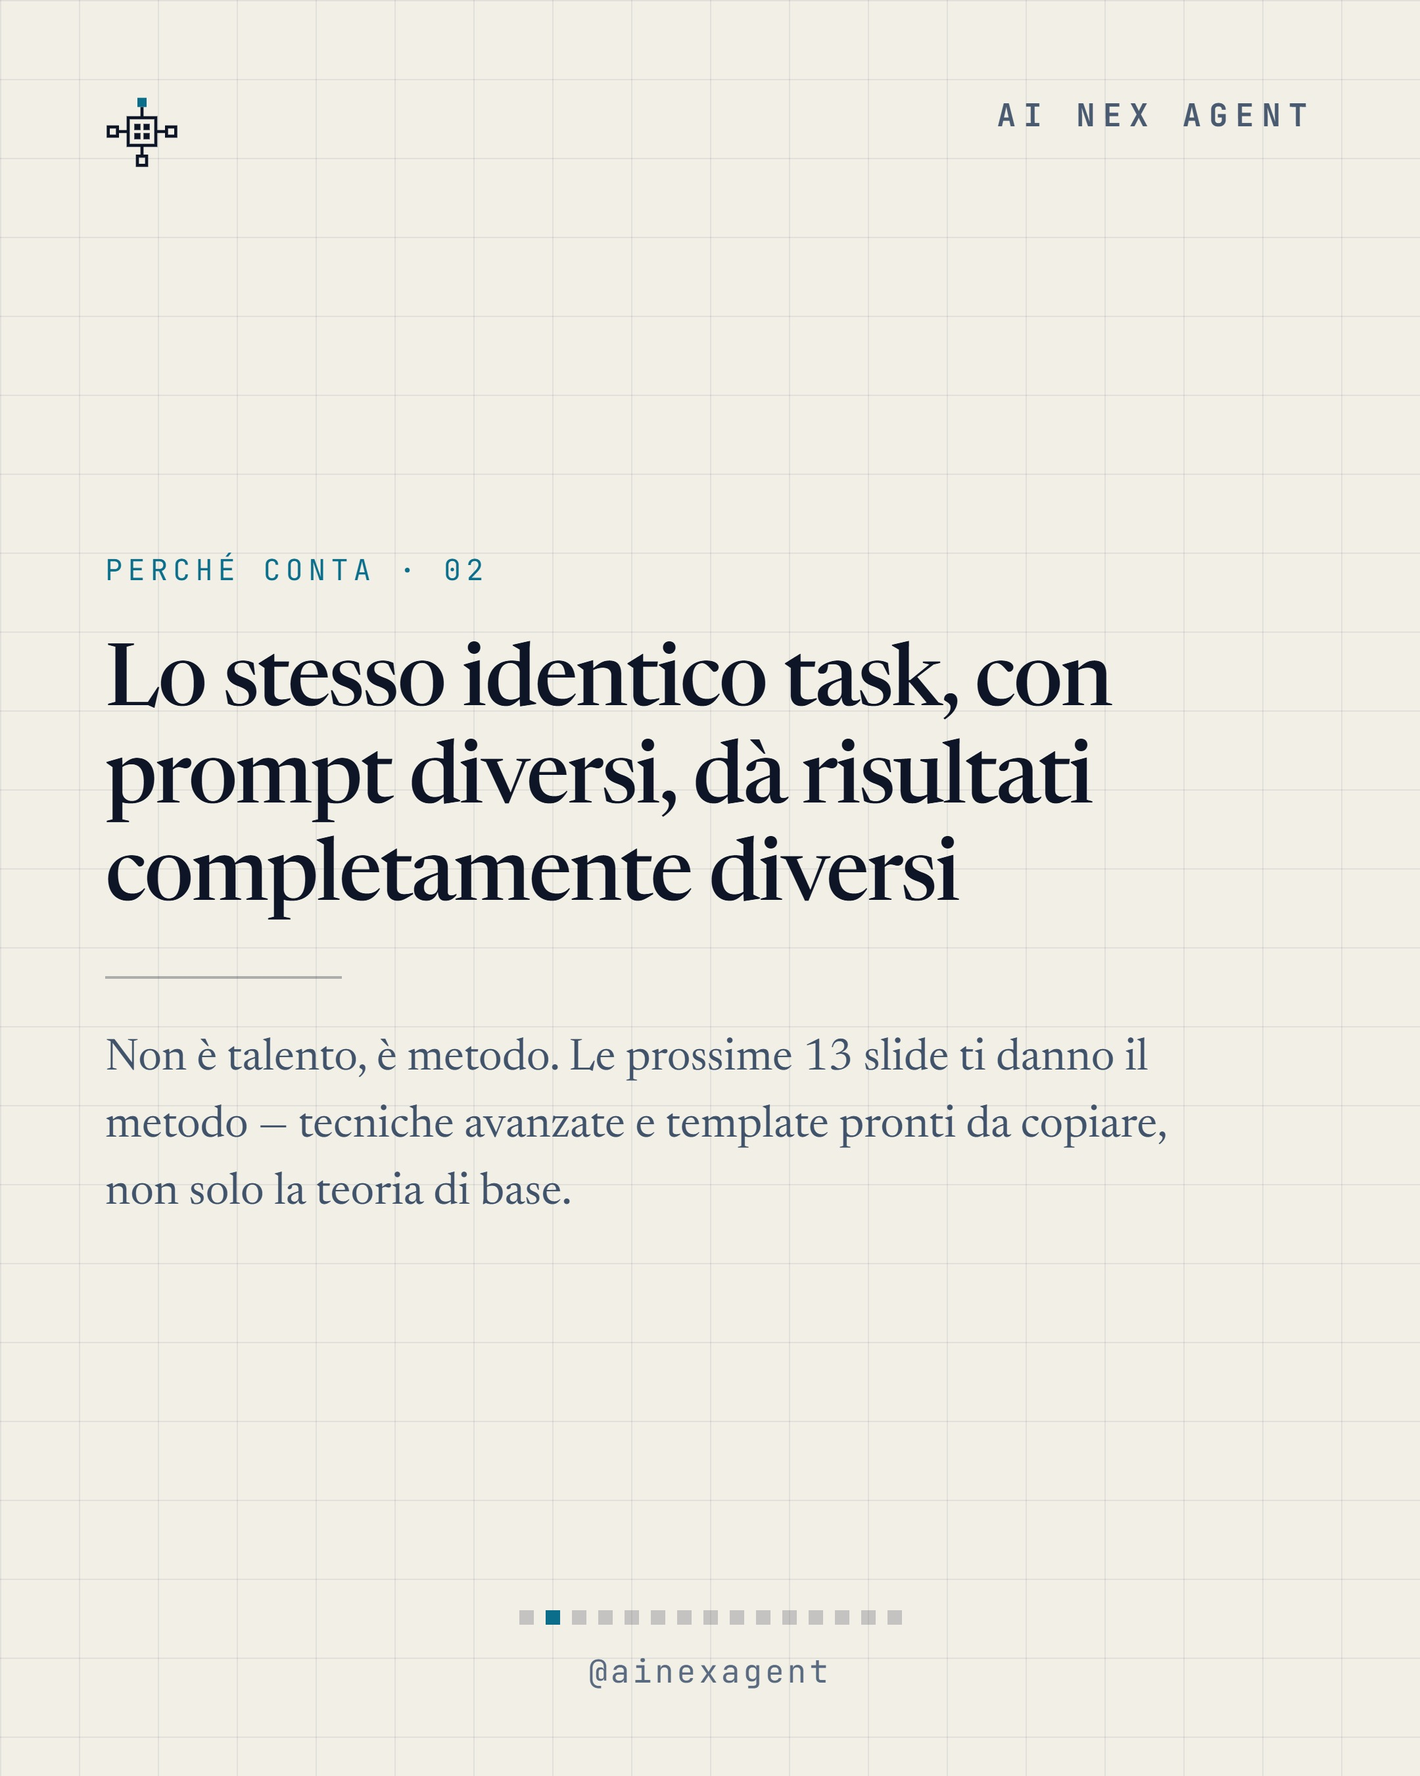
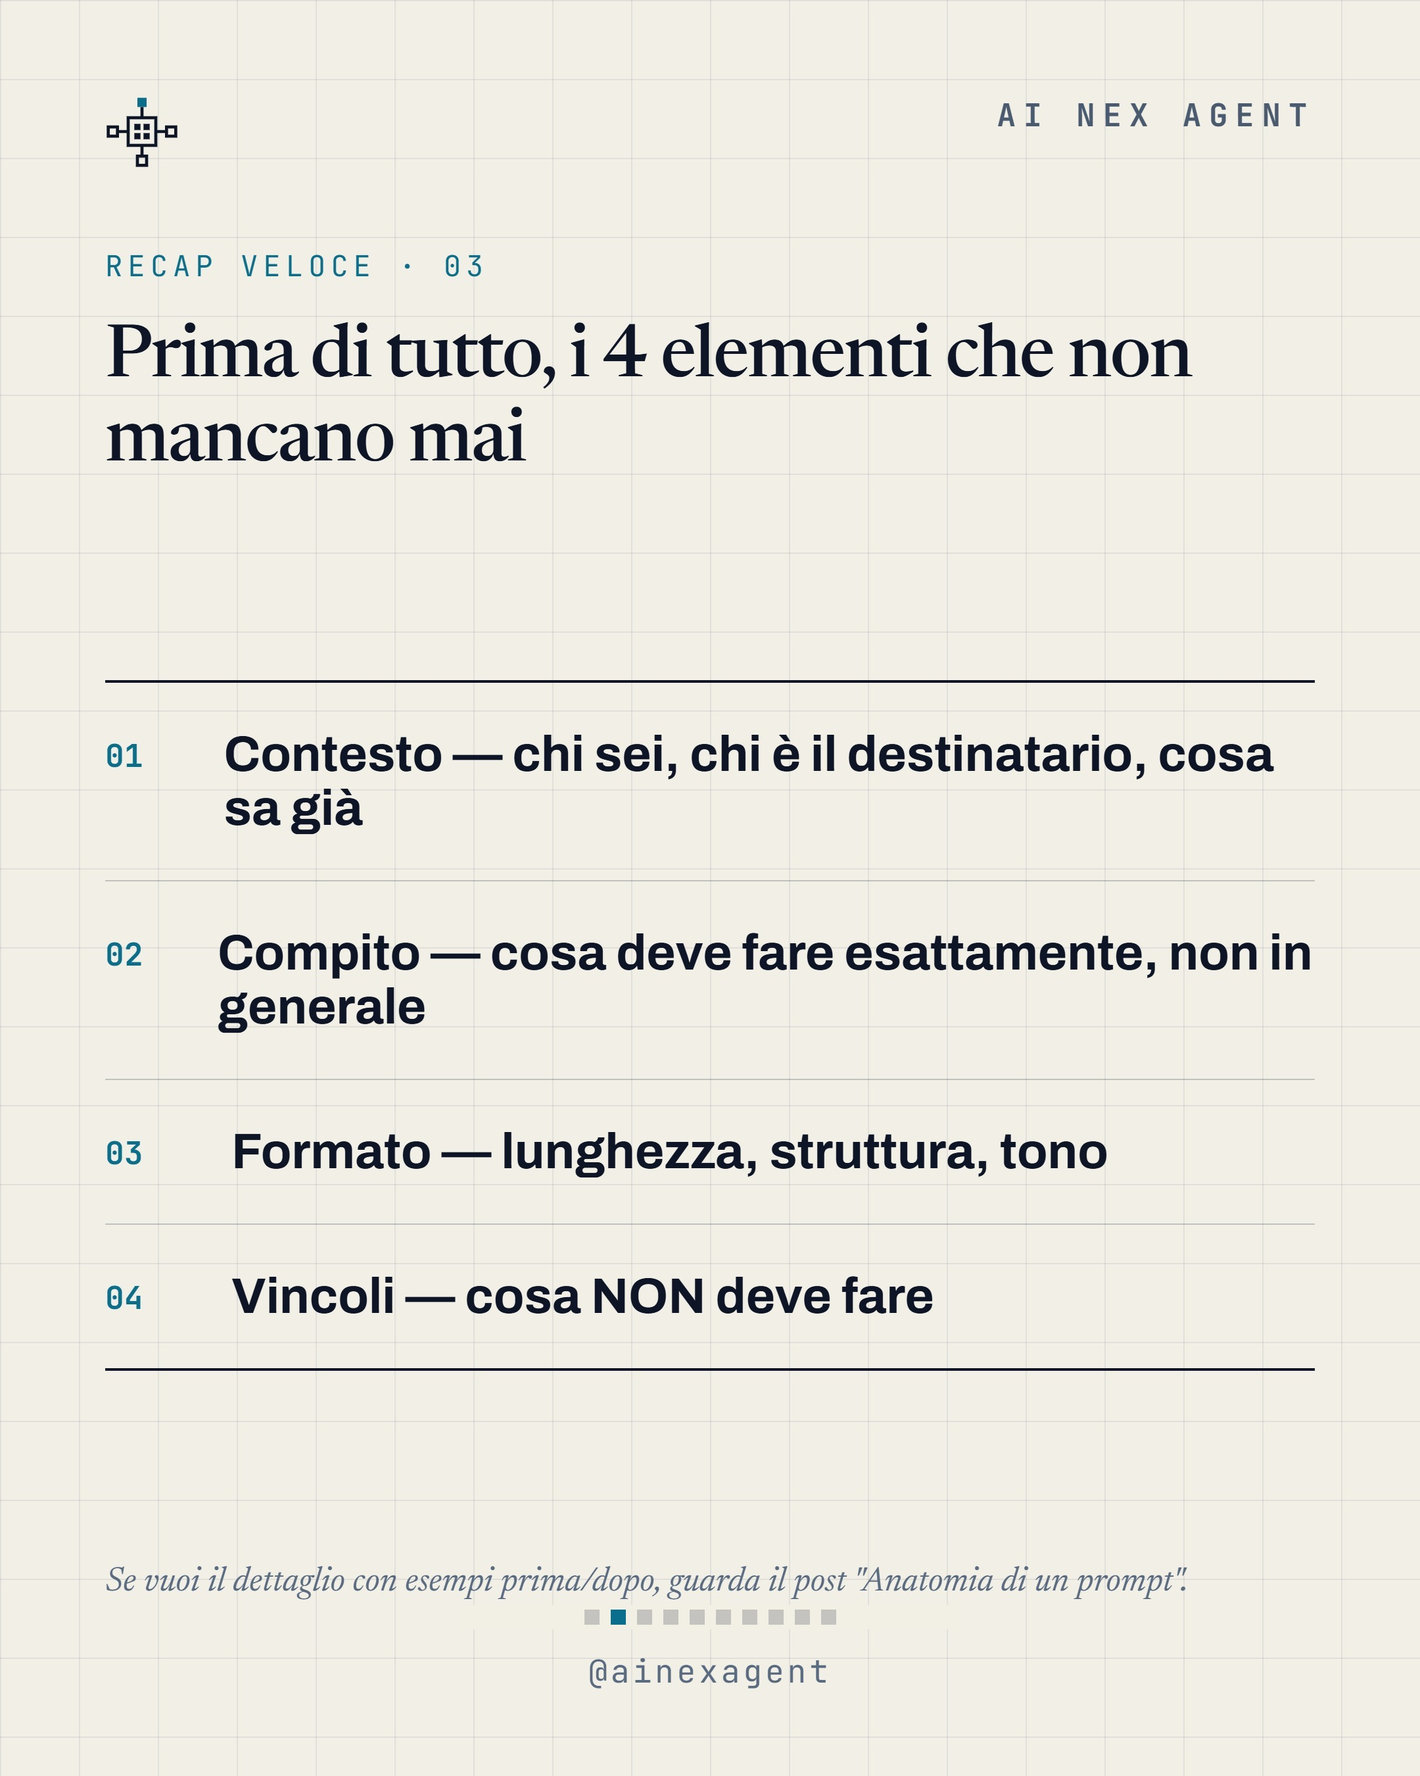
Trim prompt engineering guide to 10 slides, add level system
Instagram caps carousels at 10 slides; the 15-slide draft didn't fit.
Kept: cover, foundation recap, all 5 techniques, the strongest
template (email), checklist, CTA. Dropped the other 3 templates and
the "common mistake" slide (preserved in script-v1-15slide.md for a
possible part-2 post).

Also introduces the AI Nex Agent guide difficulty system (Livello 1
Assistente / 2 Ricerca / 3 Automazione), reusing the taxonomy from the
day-2 post instead of inventing new colors/language. This guide is
Livello 2, marked with a badge on the cover. Carousel dot indicators
were recalculated for the new 10-slide count via pixel-level image
edits (sampled each slide's exact background/dot colors and redrew
the progress row) since the source slides were designed for 15.

Claude-Session: https://claude.ai/code/session_01KsJTCWRVXdutVDFTeveLy2

diff --git a/content/post-guida-prompt-engineering/script.md b/content/post-guida-prompt-engineering/script.md
@@ -1,100 +1,59 @@
-# Guida — "La guida completa al prompt engineering" (15 slide)
+# Guida — "La guida completa al prompt engineering" (10 slide — versione pubblicata)
+
+**Stato: ✅ pubblicato**
+
+Versione finale a 10 slide (tagliata dalla bozza originale a 15, che superava il limite di
+Instagram di 10 slide per carosello — vedi `script-v1-15slide.md` per il contenuto completo,
+utile per un eventuale post "parte 2" con i template rimasti fuori).
 
 Contenuto "evergreen" ad alto potenziale di salvataggio/condivisione (non legato a una notizia,
 quindi rimane utile e ricondivisibile per mesi). Diverso e più avanzato del post del giorno 4
-("Anatomia di un prompt che funziona", 7 slide, solo i concetti base) — qui ci sono 5 tecniche
-avanzate + 4 template pronti da copiare, pensato esplicitamente per essere salvato e riletto.
+("Anatomia di un prompt che funziona", 7 slide, solo i concetti base).
 
-Stile visivo: stesso sistema "Carta Tecnica". Le slide 9-12 (i template) meritano il trattamento
-"box in evidenza" già usato per il prompt efficace del giorno 4 — testo del template dentro un
-riquadro, facilmente leggibile e "screenshot-abile".
+## Sistema di livelli AI Nex Agent (nuovo, da riusare in tutte le prossime guide)
 
----
+Riprende la tassonomia già introdotta nel post del giorno 2 ("I 3 tipi di agenti AI"), così i
+lettori riconoscono lo schema invece di doverne imparare uno nuovo. Rappresentato visivamente
+con 3 quadratini (pieno/vuoto) accanto all'etichetta, stesso linguaggio grafico dei pallini di
+avanzamento del carosello — nessun nuovo colore introdotto nel sistema "Carta Tecnica".
 
-## Slide 1 — Cover
-**Testo:** GUIDA COMPLETA · 01
-**Titolo:** La guida completa al prompt engineering
-**Sottotitolo (ciano):** Salvala. Ti servirà per mesi →
+- **■□□ Livello 1 — Assistente**: basi, applicabile subito da chiunque, zero esperienza richiesta
+- **■■□ Livello 2 — Ricerca**: richiede aver già capito le basi, introduce tecniche più avanzate
+- **■■■ Livello 3 — Automazione**: avanzato, richiede pratica, tecniche che si combinano tra loro
 
-## Slide 2 — Perché conta
-**Titolo:** Lo stesso identico task, con prompt diversi, dà risultati completamente diversi
-**Testo:** Non è talento, è metodo. Le prossime 13 slide ti danno il metodo — tecniche avanzate e template pronti da copiare, non solo la teoria di base.
+Questa guida è **Livello 2 — Ricerca**: un passo oltre le basi (il post "Anatomia di un prompt"
+del giorno 4 = Livello 1), ma non richiede ancora costruire sistemi complessi (= Livello 3).
+Il badge compare solo sulla cover, sotto il tag "GUIDA COMPLETA · 01".
 
-## Slide 3 — La struttura base (recap veloce)
-**Titolo:** Prima di tutto, i 4 elementi che non mancano mai
-**Testo (4 righe numerate):**
-01 Contesto — chi sei, chi è il destinatario, cosa sa già
-02 Compito — cosa deve fare esattamente, non in generale
-03 Formato — lunghezza, struttura, tono
-04 Vincoli — cosa NON deve fare
-**Nota piccola in basso:** (Se vuoi il dettaglio con esempi prima/dopo, guarda il post "Anatomia di un prompt")
+## Le 10 slide pubblicate (asset finali in questa cartella: gp-01.jpg … gp-10.jpg)
 
-## Slide 4 — Tecnica 1: Role prompting
-**Titolo/numero:** 01 — Role prompting
-**Testo:** Digli chi deve "essere", non solo cosa fare. "Agisci come un avvocato che revisiona un contratto" produce un output diverso — più preciso, con il vocabolario giusto — rispetto a "controlla questo contratto".
-**Esempio:** "Agisci come un editor esperto di riviste tech. Rivedi questo paragrafo per chiarezza e ritmo."
+1. Cover — badge "LIVELLO 2 · RICERCA"
+2. Recap veloce — i 4 elementi base (contesto, compito, formato, vincoli)
+3. Tecnica 01 — Role prompting
+4. Tecnica 02 — Few-shot examples
+5. Tecnica 03 — Chain of thought
+6. Tecnica 04 — Iterazione
+7. Tecnica 05 — Vincoli negativi
+8. Template pronto — Email professionale
+9. Checklist finale (la slide da salvare)
+10. CTA — Segui @ainexagent
 
-## Slide 5 — Tecnica 2: Few-shot examples
-**Titolo/numero:** 02 — Mostra, non solo descrivere
-**Testo:** Se il formato conta, non descriverlo — mostralo. Dai 1-2 esempi dell'output che vuoi. L'agente copia lo schema, non solo le istruzioni.
-**Esempio:** "Scrivi 3 titoli nello stesso stile di questi: 'Il tuo chatbot risponde, un agente agisce' / 'Perché il tuo agente a volte non sa cose ovvie'"
+**Nota cosmetica nota**: le etichette interne tipo "TEMPLATE PRONTO · 06" o "CHECKLIST · 11"
+mantengono la numerazione della versione originale a 15 slide (non più il loro indice reale
+nel post pubblicato) — imperfezione minore, valutare se corregerla nelle prossime guide
+progettando fin da subito per il conteggio finale di slide.
 
-## Slide 6 — Tecnica 3: Chain of thought
-**Titolo/numero:** 03 — Fallo ragionare prima di rispondere
-**Testo:** Per compiti complessi (calcoli, decisioni con più variabili, analisi), chiedi esplicitamente di ragionare passo passo prima di dare la risposta finale. Riduce drasticamente gli errori.
-**Esempio:** "Prima elenca i pro e i contro di ogni opzione, poi dammi la tua raccomandazione finale."
-
-## Slide 7 — Tecnica 4: Iterazione
-**Titolo/numero:** 04 — La prima risposta è una bozza, non il risultato
-**Testo:** Il modo sbagliato di usare l'AI è aspettarsi la risposta perfetta al primo colpo. Il modo giusto: tratta la prima risposta come una bozza, poi correggi con istruzioni specifiche ("troppo lungo", "tono più diretto", "aggiungi un esempio").
-
-## Slide 8 — Tecnica 5: Vincoli negativi
-**Titolo/numero:** 05 — Dire cosa NON fare è potente quanto dire cosa fare
-**Testo:** "Non usare gergo tecnico", "non superare 100 parole", "non usare elenchi puntati" — i vincoli negativi eliminano interi rami di risposte sbagliate che altrimenti dovresti correggere dopo.
-
-## Slide 9 — Template pronto: email professionale
-**Titolo:** Template · Email professionale
-**Box:** "Scrivi un'email [tipo: follow-up / richiesta / scuse] per [destinatario], su [contesto]. Obiettivo: [cosa deve succedere dopo]. Tono [formale/diretto/cordiale]. Massimo [N] righe, senza elenco."
-
-## Slide 10 — Template pronto: riassunto
-**Titolo:** Template · Riassunto di un documento
-**Box:** "Riassumi questo testo in [N] punti chiave, per un lettore che [non ha tempo di leggerlo tutto / non conosce il contesto]. Mantieni i numeri e le date esatte. Non aggiungere opinioni non presenti nel testo."
-
-## Slide 11 — Template pronto: analisi/confronto
-**Titolo:** Template · Confronto tra opzioni
-**Box:** "Confronta [opzione A] e [opzione B] su questi criteri: [criterio 1, criterio 2, criterio 3]. Presenta in tabella. Concludi con una raccomandazione motivata in 2 righe."
-
-## Slide 12 — Template pronto: brainstorming
-**Titolo:** Template · Brainstorming creativo
-**Box:** "Genera 10 idee per [obiettivo]. Target: [pubblico]. Vincoli: [budget/tempo/tono]. Per ognuna, una riga che spiega perché potrebbe funzionare. Evita le idee più ovvie/scontate."
-
-## Slide 13 — L'errore che quasi tutti fanno
-**Titolo:** L'errore più comune, anche con questa guida in mano
-**Testo:** Usare tutte le tecniche insieme, sempre, per ogni task. Non serve. Un messaggio veloce non ha bisogno di role prompting e chain-of-thought — usa la tecnica giusta per la complessità del compito, non tutte per abitudine.
-
-## Slide 14 — Checklist finale (la slide da salvare)
-**Titolo:** Checklist — rileggi prima di ogni prompt importante
-**Testo (7 righe con segno di spunta):**
-☐ Ho dato contesto sufficiente?
-☐ Il compito è specifico, non generico?
-☐ Ho specificato il formato?
-☐ Ho detto cosa NON fare?
-☐ Per task complessi, ho chiesto di ragionare prima?
-☐ Ho dato un esempio, se il formato conta?
-☐ Sono pronto a iterare, non solo ad accettare la prima risposta?
-
-## Slide 15 — CTA
-**Titolo:** Salva questo post. Torna utile ogni volta che scrivi un prompt importante.
-**Box:** SEGUI →
-**Testo piccolo:** @ainexagent
+**Tagliato in questa versione** (contenuto ancora valido per un post "parte 2"):
+"Perché conta" (slide 2 originale), 3 dei 4 template (riassunto, confronto, brainstorming),
+"L'errore che quasi tutti fanno".
 
 ---
 
-## Caption per il post
+## Caption pubblicata
 
 La guida al prompt engineering che avresti voluto avere dal primo giorno. Salvala — non è contenuto che si consuma una volta sola. 📌
 
-Il post "Anatomia di un prompt" (qualche giorno fa) copriva le basi: contesto, compito, formato, vincoli. Questa guida va oltre — 5 tecniche avanzate + 4 template pronti da copiare e adattare, per i task che usi davvero ogni settimana.
+Il post "Anatomia di un prompt" (qualche giorno fa, Livello 1) copriva le basi: contesto, compito, formato, vincoli. Questa guida è Livello 2 — va oltre: 5 tecniche avanzate + un template pronto da copiare, per i task che usi davvero ogni settimana.
 
 Le 5 tecniche, in sintesi:
 → Role prompting: digli chi "essere", non solo cosa fare
@@ -103,13 +62,11 @@ Le 5 tecniche, in sintesi:
 → Iterazione: la prima risposta è una bozza, non il risultato finale
 → Vincoli negativi: dire cosa NON fare elimina interi rami di errori
 
-Più 4 template pronti — email professionale, riassunto documenti, confronto tra opzioni, brainstorming creativo — che puoi copiare e riempire con i tuoi dettagli in 30 secondi.
+Più un template pronto per le email professionali, che puoi copiare e riempire con i tuoi dettagli in 30 secondi.
 
-L'errore più comune, anche dopo aver letto tutto questo? Usare ogni tecnica per ogni task. Non serve — un messaggio veloce non ha bisogno di chain-of-thought. Usa la tecnica giusta per la complessità del compito.
+Nella penultima slide c'è la checklist riassuntiva — quella è la slide da tenere sott'occhio ogni volta che scrivi un prompt che conta davvero.
 
-Nell'ultima slide c'è la checklist riassuntiva — quella è la slide da tenere sott'occhio ogni volta che scrivi un prompt che conta davvero.
-
-Quale di queste 5 tecniche usavi già? Quale proverai oggi? Dimmelo nei commenti.
+Quale di queste 5 tecniche usavi già? Quale proverai oggi? Dimmelo nei commenti — se questo post funziona, arriva anche la parte 2 con altri 3 template (riassunto, confronto, brainstorming).
 
 Segui @ainexagent se vuoi altre guide pratiche come questa. 🧠⚡
 

diff --git a/content/post-guida-prompt-engineering/script-v1-15slide.md b/content/post-guida-prompt-engineering/script-v1-15slide.md
@@ -1,0 +1,116 @@
+# Guida — "La guida completa al prompt engineering" (15 slide)
+
+Contenuto "evergreen" ad alto potenziale di salvataggio/condivisione (non legato a una notizia,
+quindi rimane utile e ricondivisibile per mesi). Diverso e più avanzato del post del giorno 4
+("Anatomia di un prompt che funziona", 7 slide, solo i concetti base) — qui ci sono 5 tecniche
+avanzate + 4 template pronti da copiare, pensato esplicitamente per essere salvato e riletto.
+
+Stile visivo: stesso sistema "Carta Tecnica". Le slide 9-12 (i template) meritano il trattamento
+"box in evidenza" già usato per il prompt efficace del giorno 4 — testo del template dentro un
+riquadro, facilmente leggibile e "screenshot-abile".
+
+---
+
+## Slide 1 — Cover
+**Testo:** GUIDA COMPLETA · 01
+**Titolo:** La guida completa al prompt engineering
+**Sottotitolo (ciano):** Salvala. Ti servirà per mesi →
+
+## Slide 2 — Perché conta
+**Titolo:** Lo stesso identico task, con prompt diversi, dà risultati completamente diversi
+**Testo:** Non è talento, è metodo. Le prossime 13 slide ti danno il metodo — tecniche avanzate e template pronti da copiare, non solo la teoria di base.
+
+## Slide 3 — La struttura base (recap veloce)
+**Titolo:** Prima di tutto, i 4 elementi che non mancano mai
+**Testo (4 righe numerate):**
+01 Contesto — chi sei, chi è il destinatario, cosa sa già
+02 Compito — cosa deve fare esattamente, non in generale
+03 Formato — lunghezza, struttura, tono
+04 Vincoli — cosa NON deve fare
+**Nota piccola in basso:** (Se vuoi il dettaglio con esempi prima/dopo, guarda il post "Anatomia di un prompt")
+
+## Slide 4 — Tecnica 1: Role prompting
+**Titolo/numero:** 01 — Role prompting
+**Testo:** Digli chi deve "essere", non solo cosa fare. "Agisci come un avvocato che revisiona un contratto" produce un output diverso — più preciso, con il vocabolario giusto — rispetto a "controlla questo contratto".
+**Esempio:** "Agisci come un editor esperto di riviste tech. Rivedi questo paragrafo per chiarezza e ritmo."
+
+## Slide 5 — Tecnica 2: Few-shot examples
+**Titolo/numero:** 02 — Mostra, non solo descrivere
+**Testo:** Se il formato conta, non descriverlo — mostralo. Dai 1-2 esempi dell'output che vuoi. L'agente copia lo schema, non solo le istruzioni.
+**Esempio:** "Scrivi 3 titoli nello stesso stile di questi: 'Il tuo chatbot risponde, un agente agisce' / 'Perché il tuo agente a volte non sa cose ovvie'"
+
+## Slide 6 — Tecnica 3: Chain of thought
+**Titolo/numero:** 03 — Fallo ragionare prima di rispondere
+**Testo:** Per compiti complessi (calcoli, decisioni con più variabili, analisi), chiedi esplicitamente di ragionare passo passo prima di dare la risposta finale. Riduce drasticamente gli errori.
+**Esempio:** "Prima elenca i pro e i contro di ogni opzione, poi dammi la tua raccomandazione finale."
+
+## Slide 7 — Tecnica 4: Iterazione
+**Titolo/numero:** 04 — La prima risposta è una bozza, non il risultato
+**Testo:** Il modo sbagliato di usare l'AI è aspettarsi la risposta perfetta al primo colpo. Il modo giusto: tratta la prima risposta come una bozza, poi correggi con istruzioni specifiche ("troppo lungo", "tono più diretto", "aggiungi un esempio").
+
+## Slide 8 — Tecnica 5: Vincoli negativi
+**Titolo/numero:** 05 — Dire cosa NON fare è potente quanto dire cosa fare
+**Testo:** "Non usare gergo tecnico", "non superare 100 parole", "non usare elenchi puntati" — i vincoli negativi eliminano interi rami di risposte sbagliate che altrimenti dovresti correggere dopo.
+
+## Slide 9 — Template pronto: email professionale
+**Titolo:** Template · Email professionale
+**Box:** "Scrivi un'email [tipo: follow-up / richiesta / scuse] per [destinatario], su [contesto]. Obiettivo: [cosa deve succedere dopo]. Tono [formale/diretto/cordiale]. Massimo [N] righe, senza elenco."
+
+## Slide 10 — Template pronto: riassunto
+**Titolo:** Template · Riassunto di un documento
+**Box:** "Riassumi questo testo in [N] punti chiave, per un lettore che [non ha tempo di leggerlo tutto / non conosce il contesto]. Mantieni i numeri e le date esatte. Non aggiungere opinioni non presenti nel testo."
+
+## Slide 11 — Template pronto: analisi/confronto
+**Titolo:** Template · Confronto tra opzioni
+**Box:** "Confronta [opzione A] e [opzione B] su questi criteri: [criterio 1, criterio 2, criterio 3]. Presenta in tabella. Concludi con una raccomandazione motivata in 2 righe."
+
+## Slide 12 — Template pronto: brainstorming
+**Titolo:** Template · Brainstorming creativo
+**Box:** "Genera 10 idee per [obiettivo]. Target: [pubblico]. Vincoli: [budget/tempo/tono]. Per ognuna, una riga che spiega perché potrebbe funzionare. Evita le idee più ovvie/scontate."
+
+## Slide 13 — L'errore che quasi tutti fanno
+**Titolo:** L'errore più comune, anche con questa guida in mano
+**Testo:** Usare tutte le tecniche insieme, sempre, per ogni task. Non serve. Un messaggio veloce non ha bisogno di role prompting e chain-of-thought — usa la tecnica giusta per la complessità del compito, non tutte per abitudine.
+
+## Slide 14 — Checklist finale (la slide da salvare)
+**Titolo:** Checklist — rileggi prima di ogni prompt importante
+**Testo (7 righe con segno di spunta):**
+☐ Ho dato contesto sufficiente?
+☐ Il compito è specifico, non generico?
+☐ Ho specificato il formato?
+☐ Ho detto cosa NON fare?
+☐ Per task complessi, ho chiesto di ragionare prima?
+☐ Ho dato un esempio, se il formato conta?
+☐ Sono pronto a iterare, non solo ad accettare la prima risposta?
+
+## Slide 15 — CTA
+**Titolo:** Salva questo post. Torna utile ogni volta che scrivi un prompt importante.
+**Box:** SEGUI →
+**Testo piccolo:** @ainexagent
+
+---
+
+## Caption per il post
+
+La guida al prompt engineering che avresti voluto avere dal primo giorno. Salvala — non è contenuto che si consuma una volta sola. 📌
+
+Il post "Anatomia di un prompt" (qualche giorno fa) copriva le basi: contesto, compito, formato, vincoli. Questa guida va oltre — 5 tecniche avanzate + 4 template pronti da copiare e adattare, per i task che usi davvero ogni settimana.
+
+Le 5 tecniche, in sintesi:
+→ Role prompting: digli chi "essere", non solo cosa fare
+→ Few-shot: mostra un esempio invece di descriverlo
+→ Chain of thought: fallo ragionare passo passo sui task complessi
+→ Iterazione: la prima risposta è una bozza, non il risultato finale
+→ Vincoli negativi: dire cosa NON fare elimina interi rami di errori
+
+Più 4 template pronti — email professionale, riassunto documenti, confronto tra opzioni, brainstorming creativo — che puoi copiare e riempire con i tuoi dettagli in 30 secondi.
+
+L'errore più comune, anche dopo aver letto tutto questo? Usare ogni tecnica per ogni task. Non serve — un messaggio veloce non ha bisogno di chain-of-thought. Usa la tecnica giusta per la complessità del compito.
+
+Nell'ultima slide c'è la checklist riassuntiva — quella è la slide da tenere sott'occhio ogni volta che scrivi un prompt che conta davvero.
+
+Quale di queste 5 tecniche usavi già? Quale proverai oggi? Dimmelo nei commenti.
+
+Segui @ainexagent se vuoi altre guide pratiche come questa. 🧠⚡
+
+#IntelligenzaArtificiale #PromptEngineering #AgentiAI #AI2026 #TechItalia #GuidaAI #ProduttivitàAI #AItips #ArtificialIntelligence #TechNews #IntelligenzaArtificialeItalia #StrumentiAI #NotizieTech #ChatGPT #Claude
